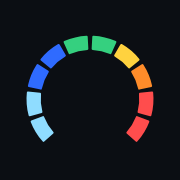
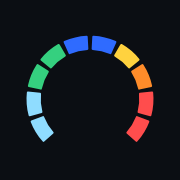
feat(brand): swap blue and green on the effort scale (zones 3-4 green, 5-6 blue)

Changed region(s): [[0.1389, 0.1944, 0.6667, 0.5]]

diff --git a/src/client/hyperride/frame.test.ts b/src/client/hyperride/frame.test.ts
@@ -102,7 +102,7 @@ describe('buildWorldFrame', () => {
     expect(f.fovTarget).toBe(70);
     expect(f.slopeTarget).toBe(0);
     expect(f.effortGlow).toBeCloseTo(0.3, 10);
-    expect(f.effortColor).toBe('#2f6bff');
+    expect(f.effortColor).toBe('#35d07f');
   });
 
   it('sprint (rpm ≥105 and effort ≥8) widens the field of view', () => {
@@ -130,7 +130,7 @@ describe('buildWorldFrame', () => {
     for (const status of ['idle', 'countdown', 'paused', 'finished'] as const) {
       const f = build({ status });
       expect(f.speedTarget).toBe(0);
-      expect(f.effortColor).toBe('#2f6bff');
+      expect(f.effortColor).toBe('#35d07f');
     }
   });
 
@@ -162,16 +162,16 @@ describe('buildWorldFrame', () => {
       // t = 10, speed 20: depth 0 → t 10 (blue); depth 1000 → t 60 (sprint red);
       // depth 1600 → t 90 (climb orange); far beyond the end → last block (green)
       const f = build({}, 20);
-      expect(f.colorAtDepth(0)).toBe('#2f6bff');
-      expect(f.colorAtDepth(999)).toBe('#2f6bff');
+      expect(f.colorAtDepth(0)).toBe('#35d07f');
+      expect(f.colorAtDepth(999)).toBe('#35d07f');
       expect(f.colorAtDepth(1000)).toBe('#ff4d4d');
       expect(f.colorAtDepth(1600)).toBe('#ff8c2a');
-      expect(f.colorAtDepth(100000)).toBe('#35d07f');
+      expect(f.colorAtDepth(100000)).toBe('#2f6bff');
     });
 
     it('when (nearly) stopped every ring shows the current block', () => {
       const f = build({}, 0.4);
-      expect(f.colorAtDepth(280)).toBe('#2f6bff');
+      expect(f.colorAtDepth(280)).toBe('#35d07f');
     });
 
     it('a ramp ahead is colored by its effort at arrival', () => {

diff --git a/src/domain/effort.ts b/src/domain/effort.ts
@@ -26,10 +26,10 @@ export type EffortTable = readonly EffortRow[];
 export const DEFAULT_EFFORT_TABLE: EffortTable = [
   { level: 1, labelKey: 'veryEasy', ftpPct: 45, color: '#8fdcff' },
   { level: 2, labelKey: 'easy', ftpPct: 55, color: '#8fdcff' },
-  { level: 3, labelKey: 'steady', ftpPct: 62, color: '#2f6bff' },
-  { level: 4, labelKey: 'endurance', ftpPct: 70, color: '#2f6bff' },
-  { level: 5, labelKey: 'tempo', ftpPct: 78, color: '#35d07f' },
-  { level: 6, labelKey: 'hardTempo', ftpPct: 85, color: '#35d07f' },
+  { level: 3, labelKey: 'steady', ftpPct: 62, color: '#35d07f' },
+  { level: 4, labelKey: 'endurance', ftpPct: 70, color: '#35d07f' },
+  { level: 5, labelKey: 'tempo', ftpPct: 78, color: '#2f6bff' },
+  { level: 6, labelKey: 'hardTempo', ftpPct: 85, color: '#2f6bff' },
   { level: 7, labelKey: 'hard', ftpPct: 92, color: '#ffd23f' },
   { level: 8, labelKey: 'threshold', ftpPct: 100, color: '#ff8c2a' },
   { level: 9, labelKey: 'veryHard', ftpPct: 112, color: '#ff4d4d' },

diff --git a/src/client/theme/tokens.css b/src/client/theme/tokens.css
@@ -9,17 +9,17 @@
   --line2: #2b3547;
   --dim: #5d6679;
   /* Legacy name for the blue accent; now the zone 3-4 blue. Mode accents live in --acc. */
-  --act: #2f6bff;
+  --act: #35d07f;
   /* Lighter blue for TEXT on the dark surfaces (>= 4.5:1; --act itself is 4.0:1 on --s1). */
   --act-text: #5b8cff;
   --glass: rgb(16 22 36 / 0.72);
 
   --z1: #8fdcff;
   --z2: #8fdcff;
-  --z3: #2f6bff;
-  --z4: #2f6bff;
-  --z5: #35d07f;
-  --z6: #35d07f;
+  --z3: #35d07f;
+  --z4: #35d07f;
+  --z5: #2f6bff;
+  --z6: #2f6bff;
   --z7: #ffd23f;
   --z8: #ff8c2a;
   --z9: #ff4d4d;

diff --git a/src/client/brand/brand.test.tsx b/src/client/brand/brand.test.tsx
@@ -28,10 +28,10 @@ describe('ZONE_COLORS', () => {
     expect([...ZONE_COLORS]).toEqual([
       '#8fdcff',
       '#8fdcff',
-      '#2f6bff',
-      '#2f6bff',
       '#35d07f',
       '#35d07f',
+      '#2f6bff',
+      '#2f6bff',
       '#ffd23f',
       '#ff8c2a',
       '#ff4d4d',

diff --git a/src/client/brand/palette.ts b/src/client/brand/palette.ts
@@ -4,10 +4,10 @@
 export const ZONE_COLORS: readonly string[] = [
   '#8fdcff',
   '#8fdcff',
-  '#2f6bff',
-  '#2f6bff',
   '#35d07f',
   '#35d07f',
+  '#2f6bff',
+  '#2f6bff',
   '#ffd23f',
   '#ff8c2a',
   '#ff4d4d',
